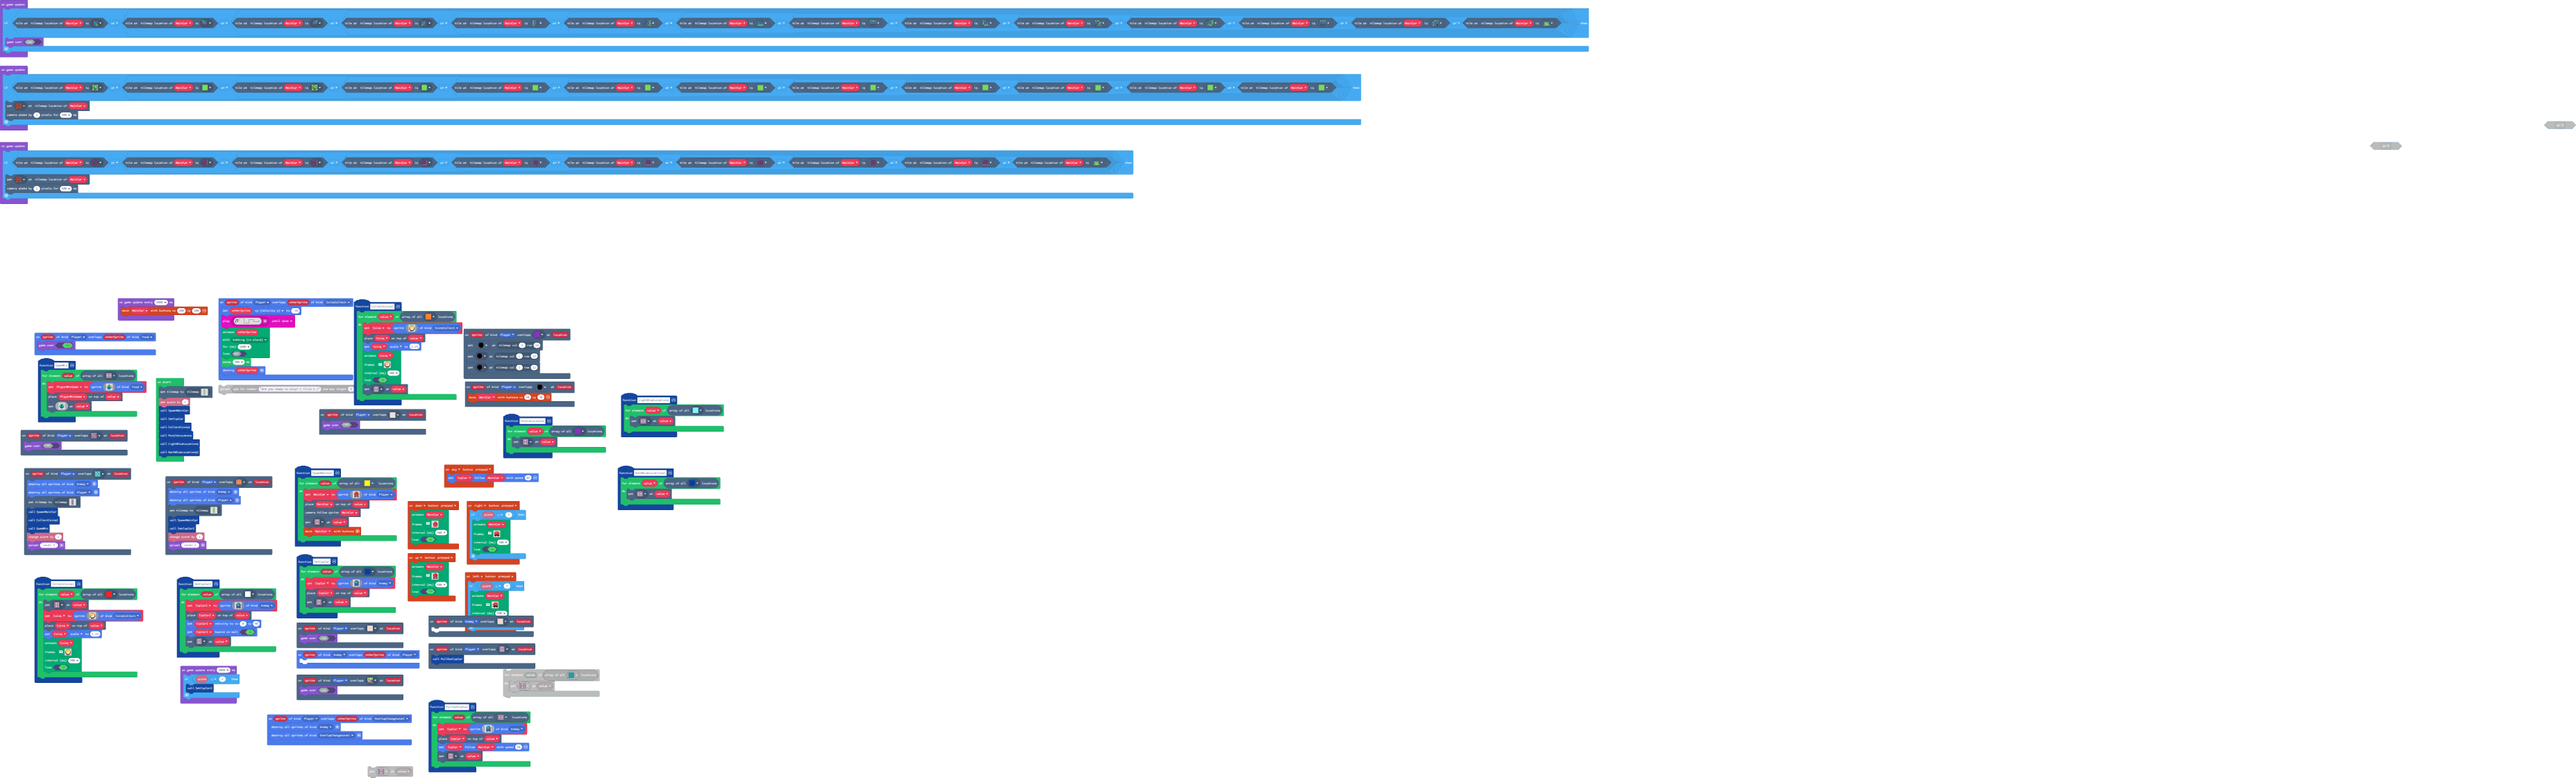
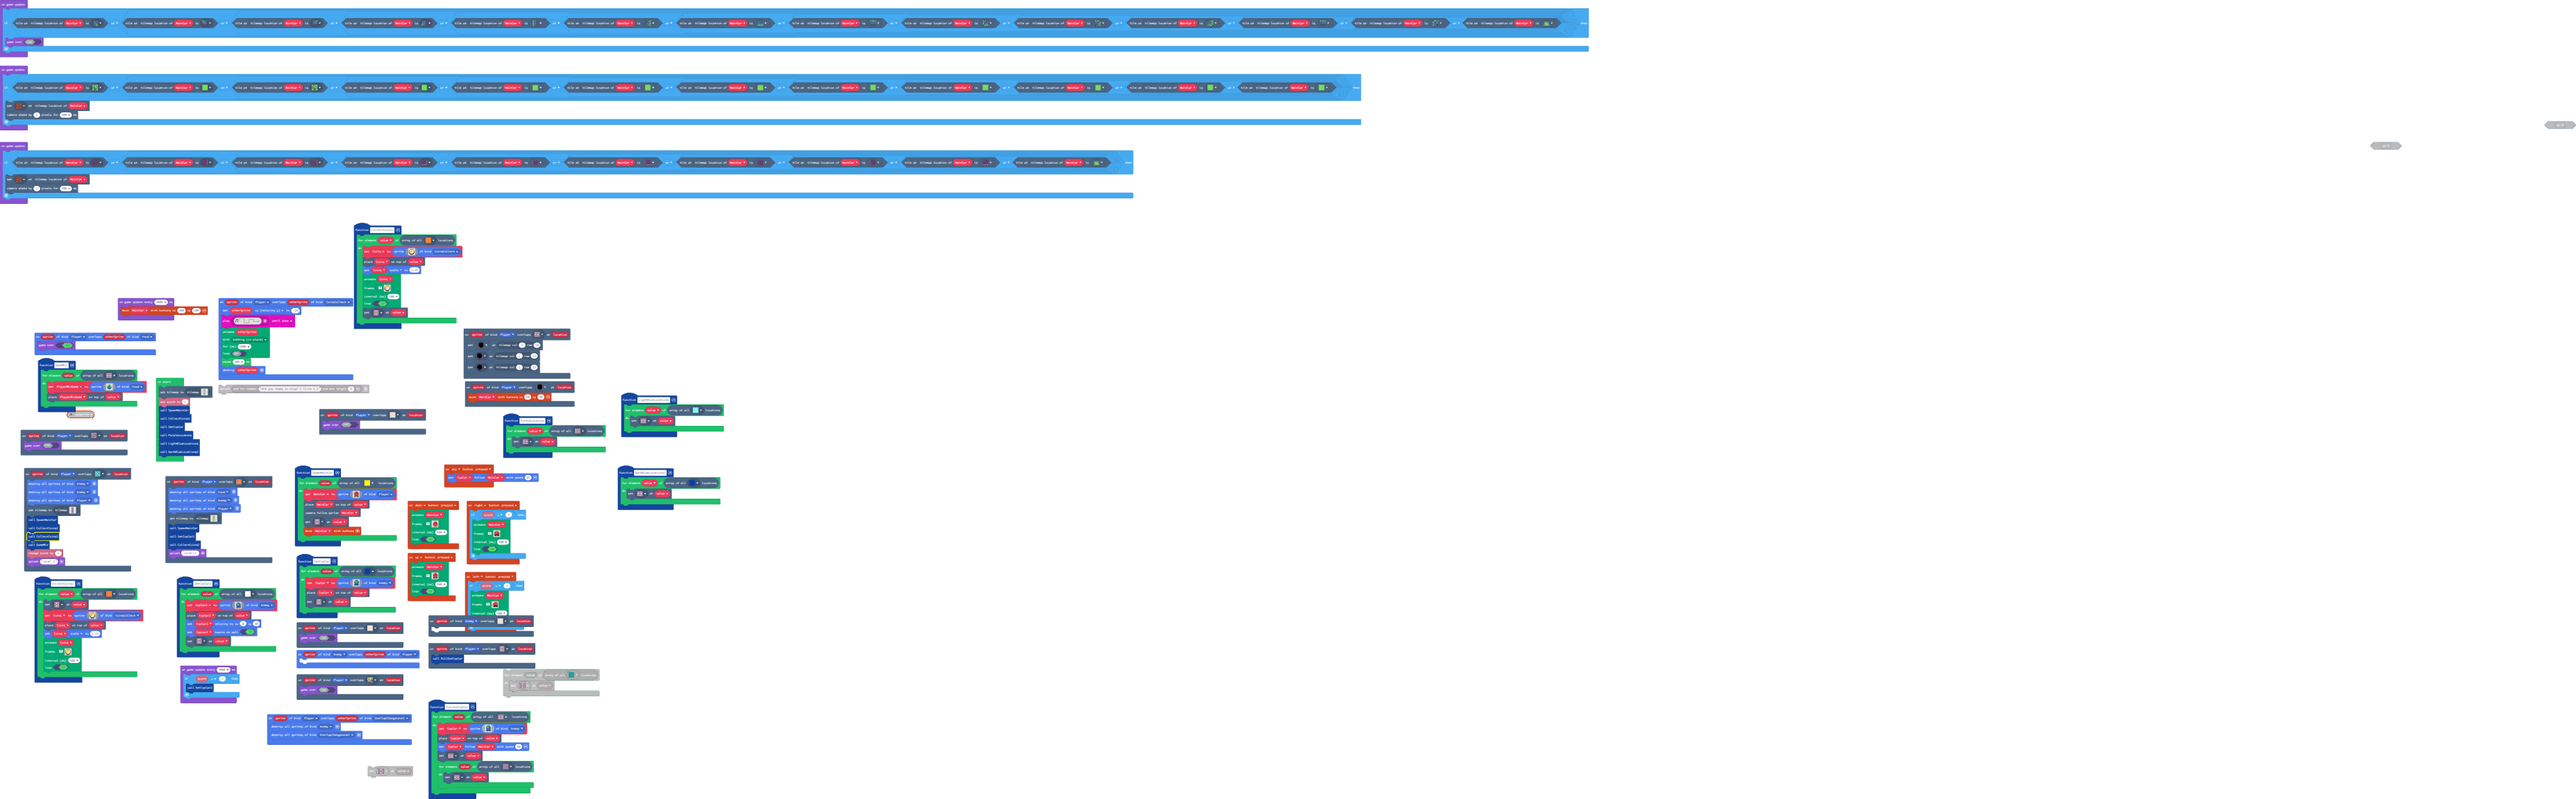
Update pxt.json, main.blocks, main.ts, tilemap.g.jres, tilemap.g.ts

Changed region(s): [[0.0, 0.0, 0.6199, 1.0], [0.9919, 0.1249, 1.0, 0.1873]]

diff --git a/tilemap.g.ts b/tilemap.g.ts
@@ -63,8 +63,6 @@ namespace myTiles {
     //% fixedInstance jres blockIdentity=images._tile
     export const tile13 = image.ofBuffer(hex``);
     //% fixedInstance jres blockIdentity=images._tile
-    export const tile22 = image.ofBuffer(hex``);
-    //% fixedInstance jres blockIdentity=images._tile
     export const tile24 = image.ofBuffer(hex``);
     //% fixedInstance jres blockIdentity=images._tile
     export const tile31 = image.ofBuffer(hex``);
@@ -76,6 +74,8 @@ namespace myTiles {
     export const tile37 = image.ofBuffer(hex``);
     //% fixedInstance jres blockIdentity=images._tile
     export const tile30 = image.ofBuffer(hex``);
+    //% fixedInstance jres blockIdentity=images._tile
+    export const tile22 = image.ofBuffer(hex``);
 
     helpers._registerFactory("tilemap", function(name: string) {
         switch(helpers.stringTrim(name)) {
@@ -136,88 +136,6 @@ namespace myTiles {
 . . . . . . . . . . . . . . . . 
 . . . . . . . . . . . . . . . . 
 `, [myTiles.transparency16], TileScale.Sixteen);
-            case "level4":
[1 lines of base64/hex data omitted]
-.............
-.............
-.............
-.............
-.............
-.............
-.............
-.............
-.............
-.............
-.............
-.............
-.............
-.............
-.............
-.............
-.............
-.............
-.............
-.............
-.............
-.............
-.............
-.............
-.............
-.............
-.............
-.............
-.............
-.............
-.............
-.............
-.............
-.............
-.............
-.............
-.............
-.............
-`, [myTiles.transparency16,myTiles.tile4,myTiles.tile6,myTiles.tile8,myTiles.tile9,myTiles.tile15,myTiles.tile26,myTiles.tile1,myTiles.tile3,sprites.skillmap.islandTile5,sprites.skillmap.islandTile3,sprites.skillmap.islandTile1,sprites.skillmap.islandTile4,myTiles.tile28,myTiles.tile31,myTiles.tile33,myTiles.tile14,myTiles.tile10,myTiles.tile12], TileScale.Sixteen);
-            case "level1":
[1 lines of base64/hex data omitted]
-............
-............
-............
-............
-............
-............
-............
-............
-............
-............
-............
-............
-............
-............
-............
-............
-............
-............
-............
-............
-............
-............
-............
-............
-............
-............
-............
-............
-............
-............
-............
-............
-............
-............
-............
-............
-............
-............
-`, [myTiles.transparency16,sprites.vehicle.roadVertical,sprites.vehicle.roadHorizontal,sprites.dungeon.darkGroundNorthWest1,sprites.dungeon.darkGroundEast,sprites.dungeon.darkGroundNorthEast0,sprites.dungeon.darkGroundSouthEast0,sprites.dungeon.darkGroundNorthWest0,sprites.dungeon.darkGroundSouthWest0,sprites.dungeon.darkGroundNorth,sprites.dungeon.darkGroundWest,sprites.dungeon.darkGroundSouth,sprites.dungeon.greenInnerNorthWest,sprites.dungeon.greenInnerSouthEast,sprites.dungeon.greenInnerSouthWest,sprites.dungeon.greenInnerNorthEast,sprites.dungeon.greenOuterWest0,sprites.dungeon.greenOuterEast1,sprites.dungeon.greenOuterSouth0,sprites.dungeon.greenOuterNorth0,sprites.dungeon.greenOuterSouth2,sprites.dungeon.greenOuterSouthEast,sprites.dungeon.greenOuterNorthEast,sprites.dungeon.greenOuterEast0,sprites.dungeon.greenOuterSouthWest,sprites.dungeon.greenOuterNorth1,sprites.dungeon.greenOuterNorthWest,sprites.dungeon.greenOuterWest1,myTiles.tile30,myTiles.tile27,sprites.dungeon.floorDarkDiamond,myTiles.tile32,myTiles.tile33], TileScale.Sixteen);
             case "level2":
[1 lines of base64/hex data omitted]
 ..........
@@ -258,7 +176,89 @@ namespace myTiles {
 ..........
 ..........
 ..........
-`, [myTiles.transparency16,sprites.vehicle.roadVertical,sprites.vehicle.roadHorizontal,sprites.skillmap.islandTile1,sprites.skillmap.islandTile4,sprites.skillmap.islandTile3,sprites.skillmap.islandTile5,myTiles.tile1,sprites.builtin.brick,myTiles.tile3,myTiles.tile4,myTiles.tile6,myTiles.tile8,myTiles.tile9,myTiles.tile15,myTiles.tile16,myTiles.tile17,myTiles.tile20,myTiles.tile22,myTiles.tile24,myTiles.tile25,myTiles.tile31,myTiles.tile33,myTiles.tile5,myTiles.tile36,myTiles.tile37,myTiles.tile30], TileScale.Sixteen);
+`, [myTiles.transparency16,sprites.vehicle.roadVertical,sprites.vehicle.roadHorizontal,sprites.skillmap.islandTile1,sprites.skillmap.islandTile4,sprites.skillmap.islandTile3,sprites.skillmap.islandTile5,myTiles.tile1,sprites.builtin.brick,myTiles.tile3,myTiles.tile4,myTiles.tile6,myTiles.tile8,myTiles.tile9,myTiles.tile15,myTiles.tile16,myTiles.tile17,myTiles.tile20,myTiles.tile22,myTiles.tile24,myTiles.tile25,myTiles.tile31,myTiles.tile33,myTiles.tile5,myTiles.tile36,myTiles.tile37], TileScale.Sixteen);
+            case "level1":
[1 lines of base64/hex data omitted]
+............
+............
+............
+............
+............
+............
+............
+............
+............
+............
+............
+............
+............
+............
+............
+............
+............
+............
+............
+............
+............
+............
+............
+............
+............
+............
+............
+............
+............
+............
+............
+............
+............
+............
+............
+............
+............
+............
+`, [myTiles.transparency16,sprites.vehicle.roadVertical,sprites.vehicle.roadHorizontal,sprites.dungeon.darkGroundNorthWest1,sprites.dungeon.darkGroundEast,sprites.dungeon.darkGroundNorthEast0,sprites.dungeon.darkGroundSouthEast0,sprites.dungeon.darkGroundNorthWest0,sprites.dungeon.darkGroundSouthWest0,sprites.dungeon.darkGroundNorth,sprites.dungeon.darkGroundWest,sprites.dungeon.darkGroundSouth,sprites.dungeon.greenInnerNorthWest,sprites.dungeon.greenInnerSouthEast,sprites.dungeon.greenInnerSouthWest,sprites.dungeon.greenInnerNorthEast,sprites.dungeon.greenOuterWest0,sprites.dungeon.greenOuterEast1,sprites.dungeon.greenOuterSouth0,sprites.dungeon.greenOuterNorth0,sprites.dungeon.greenOuterSouth2,sprites.dungeon.greenOuterSouthEast,sprites.dungeon.greenOuterNorthEast,sprites.dungeon.greenOuterEast0,sprites.dungeon.greenOuterSouthWest,sprites.dungeon.greenOuterNorth1,sprites.dungeon.greenOuterNorthWest,sprites.dungeon.greenOuterWest1,myTiles.tile30,myTiles.tile27,sprites.dungeon.floorDarkDiamond,myTiles.tile33,myTiles.tile31], TileScale.Sixteen);
+            case "level4":
[1 lines of base64/hex data omitted]
+.............
+.............
+.............
+.............
+.............
+.............
+.............
+.............
+.............
+.............
+.............
+.............
+.............
+.............
+.............
+.............
+.............
+.............
+.............
+.............
+.............
+.............
+.............
+.............
+.............
+.............
+.............
+.............
+.............
+.............
+.............
+.............
+.............
+.............
+.............
+.............
+.............
+.............
+`, [myTiles.transparency16,myTiles.tile4,myTiles.tile6,myTiles.tile8,myTiles.tile9,myTiles.tile15,myTiles.tile26,myTiles.tile1,myTiles.tile3,sprites.skillmap.islandTile5,sprites.skillmap.islandTile3,sprites.skillmap.islandTile1,sprites.skillmap.islandTile4,myTiles.tile28,myTiles.tile31,myTiles.tile33], TileScale.Sixteen);
         }
         return null;
     })
@@ -326,8 +326,6 @@ namespace myTiles {
             case "tile14":return tile14;
             case "CopCarPullOut":
             case "tile13":return tile13;
-            case "myTile16":
-            case "tile22":return tile22;
             case "myTile18":
             case "tile24":return tile24;
             case "myTile25":
@@ -340,6 +338,8 @@ namespace myTiles {
             case "tile37":return tile37;
             case "myTile24":
             case "tile30":return tile30;
+            case "myTile16":
+            case "tile22":return tile22;
         }
         return null;
     })

diff --git a/main.ts b/main.ts
@@ -3,12 +3,13 @@ namespace SpriteKind {
     export const CoinsCollect = SpriteKind.create()
 }
 scene.onOverlapTile(SpriteKind.Player, assets.tile`myTile19`, function (sprite, location) {
+    sprites.destroyAllSpritesOfKind(SpriteKind.Food)
     sprites.destroyAllSpritesOfKind(SpriteKind.Enemy)
     sprites.destroyAllSpritesOfKind(SpriteKind.Player)
     tiles.setCurrentTilemap(tilemap`level4`)
     SpawnMainCar()
     SetCopCar2()
-    info.changeScoreBy(1)
+    CollectCoins2()
     game.splash("Level 2")
 })
 controller.up.onEvent(ControllerButtonEvent.Pressed, function () {
@@ -54,9 +55,11 @@ scene.onOverlapTile(SpriteKind.Player, assets.tile`myTile15`, function (sprite, 
 })
 scene.onOverlapTile(SpriteKind.Player, assets.tile`myTile22`, function (sprite, location) {
     sprites.destroyAllSpritesOfKind(SpriteKind.Enemy)
+    sprites.destroyAllSpritesOfKind(SpriteKind.Enemy)
     sprites.destroyAllSpritesOfKind(SpriteKind.Player)
     tiles.setCurrentTilemap(tilemap`level1`)
     SpawnMainCar()
+    CollectCoins2()
     CollectCoins2()
     GameWin()
     info.changeScoreBy(1)
@@ -106,7 +109,7 @@ controller.left.onEvent(ControllerButtonEvent.Pressed, function () {
 })
 function PurpleLocatons () {
     for (let value of tiles.getTilesByType(assets.tile`myTile16`)) {
-        tiles.setTileAt(value, sprites.vehicle.roadVertical)
+        tiles.setTileAt(value, assets.tile`myTile16`)
     }
 }
 scene.onOverlapTile(SpriteKind.Player, assets.tile`myTile21`, function (sprite, location) {
@@ -182,7 +185,10 @@ function PullOutCopCar () {
             `, SpriteKind.Enemy)
         tiles.placeOnTile(CopCar, value)
         CopCar.follow(MainCar, 50)
-        tiles.setTileAt(value, sprites.vehicle.roadVertical)
+        tiles.setTileAt(value, sprites.vehicle.roadHorizontal)
+        for (let value of tiles.getTilesByType(assets.tile`myTile18`)) {
+            tiles.setTileAt(value, sprites.vehicle.roadHorizontal)
+        }
     }
 }
 controller.down.onEvent(ControllerButtonEvent.Pressed, function () {
@@ -334,31 +340,13 @@ function GameWin () {
             . . . . . . . . . . . . . . . . 
             `, SpriteKind.Food)
         tiles.placeOnTile(PlayerWinGame, value)
-        tiles.setTileAt(value, img`
-            . . . . . . . . . . . . . . . . 
-            . . . . . . 6 6 6 6 . . . . . . 
-            . . . . 6 6 6 5 5 6 6 6 . . . . 
-            . . . 7 7 7 7 6 6 6 6 6 6 . . . 
-            . . 6 7 7 7 7 8 8 8 1 1 6 6 . . 
-            . . 7 7 7 7 7 8 8 8 1 1 5 6 . . 
-            . 6 7 7 7 7 8 8 8 8 8 5 5 6 6 . 
-            . 6 7 7 7 8 8 8 6 6 6 6 5 6 6 . 
-            . 6 6 7 7 8 8 6 6 6 6 6 6 6 6 . 
-            . 6 8 7 7 8 8 6 6 6 6 6 6 6 6 . 
-            . . 6 8 7 7 8 6 6 6 6 6 8 6 . . 
-            . . 6 8 8 7 8 8 6 6 6 8 6 6 . . 
-            . . . 6 8 8 8 8 8 8 8 8 6 . . . 
-            . . . . 6 6 8 8 8 8 6 6 . . . . 
-            . . . . . . 6 6 6 6 . . . . . . 
-            . . . . . . . . . . . . . . . . 
-            `)
     }
 }
 sprites.onOverlap(SpriteKind.Player, SpriteKind.Food, function (sprite, otherSprite) {
     game.gameOver(true)
 })
 function CollectCoins2 () {
-    for (let value of tiles.getTilesByType(assets.tile`myTile26`)) {
+    for (let value of tiles.getTilesByType(assets.tile`myTile25`)) {
         tiles.setTileAt(value, assets.tile`myTile13`)
         Coins = sprites.create(img`
             . . b b b b . . 
@@ -495,8 +483,8 @@ let MainCar: Sprite = null
 tiles.setCurrentTilemap(tilemap`level2`)
 info.setScore(1)
 SpawnMainCar()
-SetCopCar()
 CollectCoins1()
+SetCopCar()
 PurpleLocatons()
 LightBlueLocations()
 DarkBlueLocations2()
